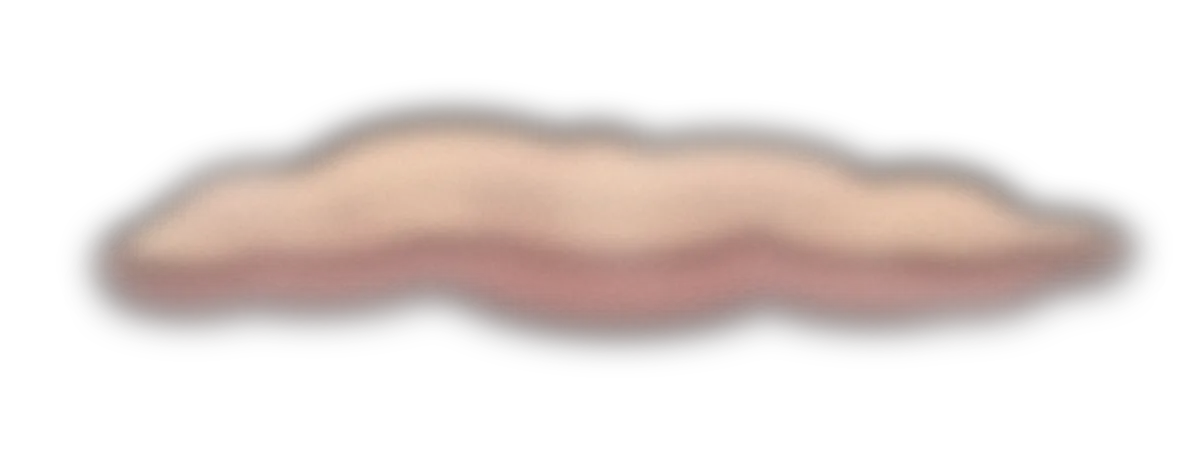
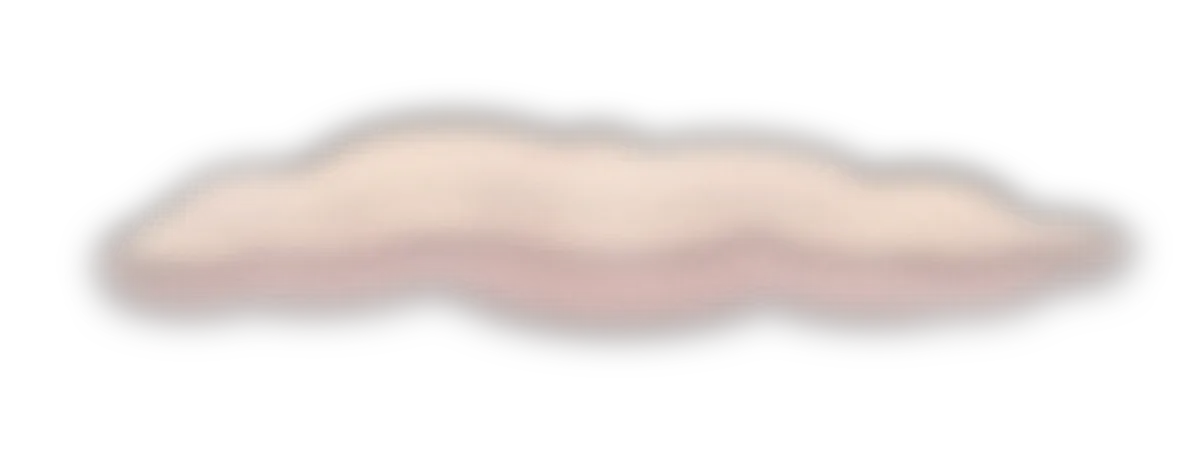
Fix scroll jank and sideways overflow on phones
- Sky is now pre-painted layers crossfaded by opacity only; scrolling no
  longer rewrites 13 CSS variables on :root (which restyled the whole page
  every frame). Text colours are fixed per scene.
- Removed mix-blend-mode on clouds/haze (rose clouds pre-lightened instead),
  blur filters on reveals, backdrop blurs, and star glows
- Petal canvas capped at 2x resolution; images decode async
- html/body/scenes clip horizontal overflow (page was 384px on a 320px screen)
- Year counter animates 2013 to 2025 once in view, so it always lands on 2025

Measured at 4x CPU throttle: median frame 100ms -> 33ms, frames over 50ms
485 -> 9.

Claude-Session: https://claude.ai/code/session_01XoHtnMZ6s4AUQzjsLT73DD

diff --git a/assets/js/birthday.js b/assets/js/birthday.js
@@ -54,9 +54,10 @@
   let petals = [], running = false;
   const sprites = Array.from({ length: 8 }, (_, i) => { const im = new Image(); im.src = `assets/img/art/petal-${i + 1}.webp`; return im; });
 
+  const DPR = Math.min(devicePixelRatio || 1, 2);
   function resize() {
-    cv.width = innerWidth * devicePixelRatio;
-    cv.height = innerHeight * devicePixelRatio;
+    cv.width = innerWidth * DPR;
+    cv.height = innerHeight * DPR;
   }
   addEventListener('resize', resize);
   resize();
@@ -117,7 +118,7 @@
     g.restore();
   }
   function tick() {
-    const d = devicePixelRatio;
+    const d = DPR;
     g.setTransform(d, 0, 0, d, 0, 0);
     g.clearRect(0, 0, innerWidth, innerHeight);
     petals = petals.filter(p => p.y < innerHeight + 30);
@@ -169,53 +170,75 @@
   }
 
   /* =====================================================
-     SKY: night → morning → afternoon → sunset → night
-     Each .scene has data-time; colours blend as she scrolls.
+     SKY: night → morning → afternoon → … → night
+     Each time of day is its own pre-painted layer; scrolling only changes
+     opacity (GPU-composited), so nothing on the page has to repaint.
      ===================================================== */
   const TIMES = {
-    night:   { top: '#12070C', bottom: '#2A0E12', fg: '#F5EAD8', soft: 'rgba(245,234,216,.72)', stars: 1,   orb: '#F2E6CF', glow: 'rgba(242,230,207,.22)', orbY: 6, orbOp: .55, accent: '#E7A9B4', moon: 1, sun: 0, day: 0, rose: 0 },
-    morning: { top: '#EADBC2', bottom: '#F7EFE2', fg: '#3B1A1D', soft: 'rgba(59,26,29,.72)',    stars: 0,   orb: '#FFF3D6', glow: 'rgba(255,226,170,.55)', orbY: 8, orbOp: .9,  accent: '#800020', moon: 0, sun: .9, day: .85, rose: 0 },
-    noon:    { top: '#C9D3BF', bottom: '#F1EADC', fg: '#24301F', soft: 'rgba(36,48,31,.72)',    stars: 0,   orb: '#FFF8E6', glow: 'rgba(255,240,200,.6)',  orbY: 5, orbOp: .9,  accent: '#3F6B4A', moon: 0, sun: 1, day: .95, rose: 0 },
-    dawn:    { top: '#3B1E2E', bottom: '#B9867E', fg: '#FBEFE0', soft: 'rgba(251,239,224,.78)', stars: .45, orb: '#F2E6CF', glow: 'rgba(242,230,207,.2)', orbY: 12, orbOp: .5, accent: '#F3C7C0', moon: .7, sun: 0, day: 0, rose: .55 },
-    sunrise: { top: '#C77B6A', bottom: '#F4D7B5', fg: '#3B1A1D', soft: 'rgba(59,26,29,.75)', stars: 0, orb: '#FFE2B0', glow: 'rgba(255,200,140,.6)', orbY: 82, orbOp: .95, accent: '#800020', moon: 0, sun: 1, day: 0, rose: .85 },
-    sunset:  { top: '#5C1A1B', bottom: '#C0704E', fg: '#FBEFE0', soft: 'rgba(251,239,224,.78)', stars: .25, orb: '#F6B47C', glow: 'rgba(246,160,100,.5)',  orbY: 90, orbOp: .9, accent: '#F6C9A8', moon: 0, sun: .9, day: 0, rose: .9 },
-  };
-  const hex = h => [1, 3, 5].map(i => parseInt(h.slice(i, i + 2), 16));
-  const rgba = c => c.startsWith('#') ? [...hex(c), 1] : c.match(/[\d.]+/g).map(Number);
-  const mix = (a, b, t) => {
-    const x = rgba(a), y = rgba(b);
-    const m = x.map((v, i) => v + (y[i] - v) * t);
-    return `rgba(${m[0] | 0},${m[1] | 0},${m[2] | 0},${m[3].toFixed(3)})`;
+    night:   { top: '#12070C', bottom: '#2A0E12', stars: 1,   moon: 1,  sun: 0,  day: 0,   rose: 0,   orbY: 6 },
+    morning: { top: '#EADBC2', bottom: '#F7EFE2', stars: 0,   moon: 0,  sun: .9, day: .85, rose: 0,   orbY: 8 },
+    noon:    { top: '#C9D3BF', bottom: '#F1EADC', stars: 0,   moon: 0,  sun: 1,  day: .95, rose: 0,   orbY: 5 },
+    dawn:    { top: '#3B1E2E', bottom: '#B9867E', stars: .45, moon: .7, sun: 0,  day: 0,   rose: .55, orbY: 12 },
+    sunrise: { top: '#C77B6A', bottom: '#F4D7B5', stars: 0,   moon: 0,  sun: 1,  day: 0,   rose: .85, orbY: 82 },
+    sunset:  { top: '#5C1A1B', bottom: '#C0704E', stars: .25, moon: 0,  sun: .9, day: 0,   rose: .9,  orbY: 90 },
   };
   const lerp = (a, b, t) => a + (b - a) * t;
+  const sky = $('#sky');
+  const layers = {};
+  Object.keys(TIMES).reverse().forEach(k => {
+    const d = document.createElement('div');
+    d.className = 'sky-layer';
+    d.style.background = `linear-gradient(180deg, ${TIMES[k].top}, ${TIMES[k].bottom})`;
+    d.style.opacity = '0';
+    sky.prepend(d);
+    layers[k] = d;
+  });
+  const starLayer = $('#stars'), dayClouds = $('.clouds.day'), roseClouds = $('.clouds.rose');
+  const moon = $('.orb.moon'), sun = $('.orb.sun');
   const scenes = $$('.scene[data-time]');
-  const rootStyle = document.documentElement.style;
   const themeMeta = document.querySelector('meta[name="theme-color"]');
+  let centers = [];
+  const measure = () => { centers = scenes.map(sc => sc.offsetTop + sc.offsetHeight / 2); };
+
+  const last = new Map();
+  const setOp = (el, v) => {
+    const r = Math.round(v * 1000) / 1000;
+    if (last.get(el) !== r) { el.style.opacity = r; last.set(el, r); }
+  };
+  let lastPair = '';
 
   function paintSky() {
+    if (!centers.length) measure();
     const mid = scrollY + innerHeight / 2;
-    const centers = scenes.map(sc => sc.offsetTop + sc.offsetHeight / 2);
     let i = 0;
     while (i < centers.length - 1 && mid > centers[i + 1]) i++;
-    const a = TIMES[scenes[i].dataset.time];
-    const b = TIMES[scenes[Math.min(i + 1, scenes.length - 1)].dataset.time];
+    const ka = scenes[i].dataset.time;
+    const kb = scenes[Math.min(i + 1, scenes.length - 1)].dataset.time;
+    const a = TIMES[ka], b = TIMES[kb];
     let t = i < centers.length - 1 ? (mid - centers[i]) / (centers[i + 1] - centers[i]) : 0;
     t = Math.max(0, Math.min(1, t));
     t = t * t * (3 - 2 * t); // smoothstep
-    rootStyle.setProperty('--sky-top', mix(a.top, b.top, t));
-    rootStyle.setProperty('--sky-bottom', mix(a.bottom, b.bottom, t));
-    rootStyle.setProperty('--fg', mix(a.fg, b.fg, t));
-    rootStyle.setProperty('--fg-soft', mix(a.soft, b.soft, t));
-    rootStyle.setProperty('--accent', mix(a.accent, b.accent, t));
-    rootStyle.setProperty('--stars', lerp(a.stars, b.stars, t).toFixed(3));
-    rootStyle.setProperty('--orb-color', mix(a.orb, b.orb, t));
-    rootStyle.setProperty('--orb-glow', mix(a.glow, b.glow, t));
-    rootStyle.setProperty('--orb-y', lerp(a.orbY, b.orbY, t).toFixed(1) + '%');
-    rootStyle.setProperty('--moon', lerp(a.moon, b.moon, t).toFixed(3));
-    rootStyle.setProperty('--sun', lerp(a.sun, b.sun, t).toFixed(3));
-    rootStyle.setProperty('--clouds-day', lerp(a.day, b.day, t).toFixed(3));
-    rootStyle.setProperty('--clouds-rose', lerp(a.rose, b.rose, t).toFixed(3));
-    if (themeMeta) themeMeta.content = mix(a.top, b.top, t);
+
+    const pair = ka + '>' + kb;
+    if (pair !== lastPair) { // only restack when the pair of skies changes
+      for (const [k, el] of Object.entries(layers)) {
+        el.style.zIndex = k === kb ? 1 : 0;
+        if (k !== ka && k !== kb) setOp(el, 0);
+      }
+      if (themeMeta) themeMeta.content = a.top;
+      lastPair = pair;
+    }
+    setOp(layers[ka], 1);
+    if (kb !== ka) setOp(layers[kb], t);
+
+    setOp(starLayer, lerp(a.stars, b.stars, t));
+    setOp(dayClouds, lerp(a.day, b.day, t));
+    setOp(roseClouds, lerp(a.rose, b.rose, t));
+    setOp(moon, lerp(a.moon, b.moon, t));
+    setOp(sun, lerp(a.sun, b.sun, t));
+    const y = lerp(a.orbY, b.orbY, t).toFixed(1);
+    const tf = `translate3d(-50%, calc(${y}vh - 50%), 0)`;
+    if (last.get('orb') !== tf) { moon.style.transform = sun.style.transform = tf; last.set('orb', tf); }
   }
   let skyQueued = false;
   addEventListener('scroll', () => {
@@ -223,12 +246,15 @@
     skyQueued = true;
     requestAnimationFrame(() => { skyQueued = false; paintSky(); });
   }, { passive: true });
-  addEventListener('resize', paintSky);
+  addEventListener('resize', () => { measure(); paintSky(); });
+  addEventListener('load', () => { measure(); paintSky(); });
+  document.fonts && document.fonts.ready.then(() => { measure(); paintSky(); });
+  measure();
   paintSky();
 
   // stars
   const starBox = $('#stars');
-  for (let k = 0; k < 90; k++) {
+  for (let k = 0; k < 55; k++) {
     const st = document.createElement('i');
     if (Math.random() < .15) st.className = 'big';
     st.style.left = (Math.random() * 100) + '%';
@@ -300,17 +326,25 @@
   addEventListener('pointerup', () => { if (!isLocked()) playSong(); }, { once: true });
 
   /* =====================================================
-     YEAR COUNTER: 2013 → 2025 as she scrolls through chapter two
+     YEAR COUNTER: rolls 2013 → 2025 once it's in view
      ===================================================== */
-  const yearsSec = $('#years'), yearEl = $('#yearCounter'), yearFill = $('#yearFill');
-  function paintYears() {
-    const r = yearsSec.getBoundingClientRect();
-    const k = Math.max(0, Math.min(1, (innerHeight * .6 - r.top) / (innerHeight * .9)));
-    yearEl.textContent = String(2013 + Math.round(k * 12));
-    yearFill.style.width = (k * 100).toFixed(1) + '%';
-  }
-  addEventListener('scroll', () => requestAnimationFrame(paintYears), { passive: true });
-  paintYears();
+  const yearEl = $('#yearCounter'), yearFill = $('#yearFill');
+  let yearsDone = false;
+  const yio = new IntersectionObserver(es => {
+    if (yearsDone || !es.some(e => e.isIntersecting)) return;
+    yearsDone = true;
+    yio.disconnect();
+    const t0 = performance.now(), dur = reduced ? 300 : 2600;
+    const step = now => {
+      const k = Math.min(1, (now - t0) / dur);
+      const e = 1 - Math.pow(1 - k, 3); // ease-out
+      yearEl.textContent = String(2013 + Math.round(e * 12));
+      yearFill.style.transform = `scaleX(${e})`;
+      if (k < 1) requestAnimationFrame(step);
+    };
+    setTimeout(() => requestAnimationFrame(step), 350);
+  }, { threshold: .6 });
+  yio.observe(yearEl);
 
   /* =====================================================
      POLAROIDS: tap to flip

diff --git a/assets/css/birthday.css b/assets/css/birthday.css
@@ -15,12 +15,10 @@
   --cream-2: #FBF5EA;
   --ink: #2B1416;
 
-  /* driven by scroll (see birthday.js) */
-  --sky-top: #12070C;
-  --sky-bottom: #2A0E12;
+  /* text colours: set per scene below, these are the defaults */
   --fg: #F5EAD8;
   --fg-soft: rgba(245, 234, 216, .72);
-  --stars: 1;
+  --accent: #E7A9B4;
 
   --display: "Fraunces", Georgia, serif;
   --hand: "Caveat", cursive;
@@ -29,7 +27,7 @@
 }
 
 * { box-sizing: border-box; }
-html { scroll-behavior: smooth; -webkit-text-size-adjust: 100%; overscroll-behavior: none; }
+html { scroll-behavior: smooth; -webkit-text-size-adjust: 100%; overscroll-behavior: none; overflow-x: hidden; overflow-x: clip; }
 body {
   margin: 0;
   background: var(--maroon-deep);
@@ -38,6 +36,8 @@ body {
   font-size: 18px;
   line-height: 1.6;
   overflow-x: hidden;
+  overflow-x: clip;
+  max-width: 100vw;
   overscroll-behavior: none;
   -webkit-tap-highlight-color: transparent;
   -webkit-user-select: none; user-select: none;
@@ -47,37 +47,26 @@ img { display: block; max-width: 100%; }
 p { margin: 0 0 1rem; }
 button { font: inherit; }
 
-/* ---------- sky ---------- */
-.sky {
-  position: fixed; inset: 0; z-index: -1;
-  background: linear-gradient(180deg, var(--sky-top), var(--sky-bottom));
-}
-.sky::after { content: ""; position: absolute; inset: 0; background-image: var(--grain); opacity: .8; }
-.stars { position: absolute; inset: 0; opacity: var(--stars); }
+/* ---------- sky (layers crossfaded by opacity only) ---------- */
+.sky { position: fixed; inset: 0; z-index: -1; overflow: hidden; background: #12070C; contain: strict; }
+.sky-layer, .stars, .clouds { position: absolute; inset: 0; pointer-events: none; will-change: opacity; }
 .stars i {
-  position: absolute; width: 2px; height: 2px; border-radius: 50%;
-  background: #FFF6E6; box-shadow: 0 0 6px rgba(255,240,215,.8);
+  position: absolute; width: 2px; height: 2px; border-radius: 50%; background: #FFF6E6;
   animation: twinkle 3s ease-in-out infinite alternate;
 }
 .stars i.big { width: 3px; height: 3px; }
 @keyframes twinkle { from { opacity: .25; } to { opacity: 1; } }
-.orb { /* moon by night, sun by day (crossfade) */
-  position: absolute; left: 86%; top: var(--orb-y, 6%);
-  width: 72px; height: 72px; translate: -50% -50%; pointer-events: none;
+.orb { /* moon by night, sun by day; position + fade set by birthday.js */
+  position: absolute; left: 86%; top: 0; width: 72px; height: 72px; pointer-events: none;
+  transform: translate3d(-50%, calc(6vh - 50%), 0); will-change: transform, opacity;
 }
-.orb.moon { opacity: var(--moon, 1); }
-.orb.sun { width: 96px; height: 96px; opacity: var(--sun, 0); }
-
-.clouds { position: absolute; inset: 0; pointer-events: none; }
-.clouds.day { opacity: var(--clouds-day, 0); }
-.clouds.rose { opacity: var(--clouds-rose, 0); }
-.clouds img { position: absolute; width: min(150vw, 1000px); max-width: none; opacity: .55; animation: drift 70s ease-in-out infinite alternate; }
-.clouds { mix-blend-mode: screen; }
-.clouds.rose img { opacity: .8; }
+.orb.sun { width: 96px; height: 96px; opacity: 0; }
+.clouds { opacity: 0; }
+.clouds img { position: absolute; width: min(150vw, 1000px); max-width: none; opacity: .6; animation: drift 70s ease-in-out infinite alternate; will-change: transform; }
 .clouds .c1 { top: -3%; left: -40%; }
 .clouds .c2 { top: 4%; left: 35%; width: min(110vw, 700px); animation-duration: 90s; animation-direction: alternate-reverse; }
 .clouds .c3 { top: 84%; left: -45%; animation-duration: 110s; }
-@keyframes drift { from { translate: -6% 0; } to { translate: 10% 0; } }
+@keyframes drift { from { transform: translateX(-6%); } to { transform: translateX(10%); } }
 .spark { position: absolute; width: 22px; height: 22px; animation: twinkle 2.6s ease-in-out infinite alternate; }
 
 #petals { position: fixed; inset: 0; width: 100%; height: 100%; pointer-events: none; z-index: 80; }
@@ -100,8 +89,15 @@ button { font: inherit; }
 .hint { font-family: var(--hand); font-size: 1.25rem; color: var(--fg-soft); margin: -.4rem 0 0; }
 
 /* ---------- scenes ---------- */
+.scene[data-time="night"]   { --fg: #F5EAD8; --fg-soft: rgba(245,234,216,.74); --accent: #E7A9B4; }
+.scene[data-time="morning"] { --fg: #3B1A1D; --fg-soft: rgba(59,26,29,.74);    --accent: #800020; }
+.scene[data-time="noon"]    { --fg: #24301F; --fg-soft: rgba(36,48,31,.76);    --accent: #3F6B4A; }
+.scene[data-time="dawn"]    { --fg: #FBEFE0; --fg-soft: rgba(251,239,224,.8);  --accent: #F3C7C0; }
+.scene[data-time="sunrise"] { --fg: #3B1A1D; --fg-soft: rgba(59,26,29,.78);    --accent: #800020; }
+.scene[data-time="sunset"]  { --fg: #FBEFE0; --fg-soft: rgba(251,239,224,.82); --accent: #F6C9A8; }
+
 .scene {
-  position: relative; min-height: 100vh; min-height: 100svh;
+  position: relative; min-height: 100vh; min-height: 100svh; overflow-x: hidden; overflow-x: clip; color: var(--fg);
   display: flex; flex-direction: column; align-items: center; justify-content: center;
   padding: calc(4rem + env(safe-area-inset-top)) 1.25rem 4.5rem; text-align: center;
 }
@@ -116,8 +112,8 @@ button { font: inherit; }
 .scroll-cue::after { content: ""; display: block; width: 9px; height: 9px; margin: .15rem auto 0; border: solid currentColor; border-width: 0 2px 2px 0; rotate: 45deg; }
 @keyframes cue { 0%, 100% { transform: translateY(0); } 50% { transform: translateY(5px); } }
 
-.reveal { opacity: 0; transform: translateY(18px); filter: blur(4px); transition: opacity 1s var(--ease), transform 1s var(--ease), filter 1s var(--ease); }
-.reveal.in { opacity: 1; transform: none; filter: none; }
+.reveal { opacity: 0; transform: translateY(18px); transition: opacity .9s var(--ease), transform .9s var(--ease); }
+.reveal.in { opacity: 1; transform: none; }
 .polaroid.reveal { transform: translateY(30px) rotate(var(--r, 0deg)) scale(.96); }
 .polaroid.reveal.in { transform: rotate(var(--r, 0deg)); }
 
@@ -141,7 +137,7 @@ button { font: inherit; }
 .music {
   position: fixed; right: 14px; top: calc(14px + env(safe-area-inset-top)); z-index: 90;
   width: 44px; height: 44px; border-radius: 50%; border: 0; cursor: pointer;
-  background: rgba(20,8,10,.45); backdrop-filter: blur(6px);
+  background: rgba(20,8,10,.6);
   display: grid; place-items: center;
 }
 .music[hidden] { display: none; }
@@ -202,9 +198,9 @@ button { font: inherit; }
 .dream { isolation: isolate; }
 .dream .haze {
   position: absolute; left: -15%; top: 22%; z-index: -1; width: 130%; max-width: none;
-  opacity: 1; pointer-events: none; mix-blend-mode: screen; animation: haze 16s ease-in-out infinite alternate;
+  opacity: .9; pointer-events: none; animation: haze 16s ease-in-out infinite alternate;
 }
-@keyframes haze { from { translate: -6% 0; rotate: -3deg; } to { translate: 6% -4%; rotate: 2deg; } }
+@keyframes haze { from { transform: translateX(-6%) rotate(-3deg); } to { transform: translate(6%, -4%) rotate(2deg); } }
 
 /* washi tape on polaroids */
 .face.front { position: relative; }
@@ -224,7 +220,7 @@ button { font: inherit; }
 }
 .year-track { width: min(260px, 70vw); height: 2px; margin: 1rem auto 0; background: var(--fg-soft); opacity: .35; border-radius: 2px; overflow: hidden; }
 .year-track.in { opacity: .35; }
-.year-track span { display: block; height: 100%; width: 0; background: var(--fg); }
+.year-track span { display: block; height: 100%; width: 100%; background: var(--fg); transform: scaleX(0); transform-origin: left; }
 .years .body + .body { margin-top: 1rem; }
 
 /* ---------- engagement rings ---------- */
@@ -301,7 +297,7 @@ button { font: inherit; }
 .notif {
   display: flex; align-items: center; gap: .8rem; padding: .8rem .95rem; text-align: left;
   border-radius: 18px; background: rgba(251,245,234,.92); color: var(--ink);
-  box-shadow: 0 10px 30px rgba(20,6,8,.25); backdrop-filter: blur(8px);
+  box-shadow: 0 10px 30px rgba(20,6,8,.25);
 }
 .notif.reveal { transform: translateX(-30px); }
 .notif.reveal:nth-child(2) { transform: translateX(30px); }
@@ -396,7 +392,7 @@ button { font: inherit; }
   position: fixed; left: 50%; top: calc(6px + env(safe-area-inset-top)); translate: -50% 0; z-index: 100;
   padding: 3px 10px; border-radius: 999px;
   font: 600 11px/1.4 system-ui, sans-serif; letter-spacing: .06em;
-  color: #fff; background: rgba(128,0,32,.9); pointer-events: none;
+  color: #fff; background: rgba(128,0,32,.9); pointer-events: none; white-space: nowrap;
 }
 
 /* =========================================================

diff --git a/index.html b/index.html
@@ -83,13 +83,13 @@
     <div class="pair">
       <figure class="polaroid reveal" style="--r:-6deg">
         <div class="pf"><div class="face front">
-          <img src="assets/photos/sd-fatah.webp" alt="Fatah as a kid, SDN Joglo 01 Pagi" width="480" height="603" loading="lazy">
+          <img src="assets/photos/sd-fatah.webp" alt="Fatah as a kid, SDN Joglo 01 Pagi" width="480" height="603" loading="lazy" decoding="async">
           <figcaption>Fatah</figcaption>
         </div></div>
       </figure>
       <figure class="polaroid reveal" style="--r:5deg">
         <div class="pf"><div class="face front">
-          <img src="assets/photos/sd-gege.webp" alt="Gege as a kid, SDN Joglo 01 Pagi" width="480" height="602" loading="lazy">
+          <img src="assets/photos/sd-gege.webp" alt="Gege as a kid, SDN Joglo 01 Pagi" width="480" height="602" loading="lazy" decoding="async">
           <figcaption>Gege</figcaption>
         </div></div>
       </figure>
@@ -181,19 +181,19 @@
     <h2 class="display reveal">And then it was us</h2>
     <div class="pile">
       <figure class="polaroid reveal" style="--r:-6deg"><div class="pf"><div class="face front">
-        <img src="assets/photos/us-mirror.webp" alt="Us in a round mirror at a crowded market" width="720" height="900" loading="lazy">
+        <img src="assets/photos/us-mirror.webp" alt="Us in a round mirror at a crowded market" width="720" height="900" loading="lazy" decoding="async">
         <figcaption>us, in a very round mirror</figcaption>
       </div></div></figure>
       <figure class="polaroid reveal" style="--r:5deg"><div class="pf"><div class="face front">
-        <img src="assets/photos/us-cat.webp" alt="Gege laughing while holding a tabby cat" width="720" height="900" loading="lazy">
+        <img src="assets/photos/us-cat.webp" alt="Gege laughing while holding a tabby cat" width="720" height="900" loading="lazy" decoding="async">
         <figcaption>you, and every cat ever</figcaption>
       </div></div></figure>
       <figure class="booth reveal" style="--r:-3deg">
         <span class="tape" style="--tape:url(../img/art/tape-cream.webp);--tr:4deg"></span>
-        <img src="assets/photos/us-photobooth.webp" alt="A five-frame photobooth strip of us" width="420" height="1120" loading="lazy">
+        <img src="assets/photos/us-photobooth.webp" alt="A five-frame photobooth strip of us" width="420" height="1120" loading="lazy" decoding="async">
       </figure>
       <figure class="polaroid reveal" style="--r:4deg"><div class="pf"><div class="face front">
-        <img src="assets/photos/us-engagement.webp" alt="Us in matching blue batik on our engagement day" width="720" height="900" loading="lazy">
+        <img src="assets/photos/us-engagement.webp" alt="Us in matching blue batik on our engagement day" width="720" height="900" loading="lazy" decoding="async">
         <figcaption>engaged, and matching, obviously</figcaption>
       </div></div></figure>
     </div>
@@ -224,7 +224,7 @@
 
     <div class="cake-stage">
       <div class="cake" id="cakeEl">
-        <img class="cake-art" src="assets/img/art/cake.webp" alt="A two-tier burgundy and cream birthday cake with roses" width="710" height="824">
+        <img class="cake-art" decoding="async" loading="lazy" src="assets/img/art/cake.webp" alt="A two-tier burgundy and cream birthday cake with roses" width="710" height="824">
         <div class="candle c2" aria-label="number 2 candle"><img src="assets/img/art/candle-2.webp" alt="" width="216" height="365"><span class="flame"></span><span class="smoke"></span></div>
         <div class="candle c6" aria-label="number 6 candle"><img src="assets/img/art/candle-6.webp" alt="" width="219" height="372"><span class="flame"></span><span class="smoke"></span></div>
       </div>

diff --git a/sw.js b/sw.js
@@ -1,6 +1,6 @@
 // Offline support so the page opens even without internet at midnight.
 // Bump VERSION whenever files change (e.g. after adding photos).
-const VERSION = 'v14';
+const VERSION = 'v15';
 const CACHE = 'gege-' + VERSION;
 const CORE = [
   './',
